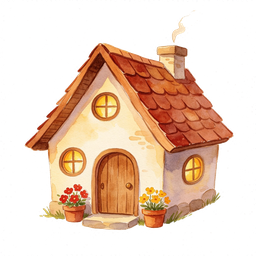
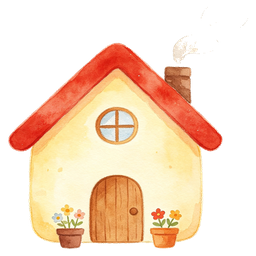
成本体系重构：元素按郊外标准固定、地皮价按区域系数化(5/10/15/20/25)、landCost保护老玩家净资产; 市中心建筑位12→8并移至广场; 保存图片保留主题背景+隐藏改名标记; 套餐支持多买(市政厅限1份); 重绘小屋/商铺/驿站/医院icon(色彩区隔); README同步

diff --git a/README.md b/README.md
@@ -7,13 +7,15 @@ A cozy alchemy-and-city-building game that runs entirely in **one zero-dependenc
 ## Gameplay
 
 - 🎰 **Lucky Draw Start** — draw your initial elements (Earth/Water/Fire/Air, 10–99 each) plus a handful of starter coins
-- ⚗ **Tap or Drag Alchemy** — tap an element to auto-fill the next slot, or drag to a specific slot. Combine two elements to discover 28 recipes (Earth+Water=Mud, Mud+Fire=Brick…). Crafting is free! **Batch crafting** unlocks by **net worth** (coins + chests×10 + elements tier×5 + pets by HP×5 + buildings & land at full value): net worth >100 → 1–5 at once, >1000 → 1–20, >10000 → 1–100. Numeric inputs include −/＋ steppers and reset to 1 after each craft/purchase. The **element library** shows all 29 discoverable cards (4 base + 19 craftable + 5 Life HP variants + Treasure Chest) and the discovery progress `X/29` matches the grid exactly
+- ⚗ **Tap or Drag Alchemy** — tap an element to auto-fill the next slot, or drag to a specific slot. Combine two/three elements to discover **30+ recipes** (Earth+Water=Mud, Mud+Fire=Brick…). Crafting is free! **Batch crafting** unlocks by **net worth** (coins + chests×10 + elements tier×5 + pets by HP×5 + buildings & land at full value): net worth >100 → 1–5 at once, >1000 → 1–10, >5000 → 1–50, >10000 → 1–100, ≥1,000,000 → no cap. Numeric inputs include −/＋ steppers and reset to 1 after each craft/purchase. The **element library** shows all **36** discoverable cards (basics + advanced + Life HP variants + Elixirs + Legendary) and the discovery progress `X/36` matches the grid exactly
 - 📕 **Recipe Book** — a password-locked grimoire listing every formula by element tier. Enter `1986` to reveal all recipes up to tier 3; enter `cosmos` to unlock the rest. Life recipes are shown at their real tier (e.g. Energy+Brick = HP 5) with an `(HP xx)` tag; the 🔩Metal+🔩Metal **Treasure Chest** recipe appears under tier 8. Unlock progress is stored independently of saves (survives export/import and reset)
-- 🏗 **Build Your Town** — gather materials to construct huts, shops, gardens, manors (generate coins) and a town hall (global +10% production bonus, no direct income). **Treasure Chests (🧰, crafted from 🔩Metal+🔩Metal)** are required as building materials for high-tier structures like Manors and City Hall
-- 🗺 **Town Map** — unlocked after building a Hut + Shop; visual map with 5 regions (Plain / Hillside / Forest / Riverside / Downtown), each with cost & output multipliers. Includes a stats bar (total buildings / coin output / developed regions), building badges, and a per-region building grid
+- 🏗 **Build Your Town** — gather materials to construct huts, shops, gardens, manors, factories (generate coins) and a town hall (global +10% production bonus, no direct income). **Treasure Chests (🧰, crafted from 🔩Metal+🔩Metal)** are required as building materials for high-tier structures like Manors and City Hall. **Building cost = element bundle (fixed at the countryside standard for every region) + build coins (base × region cost multiplier) + plot price (region-scaled)**. City Hall max 2 (2nd ×1.5); Factory only in the Factory District
+- 🗺 **Town Map** — unlocked after building any 2 buildings; visual map with **6 regions** (Countryside / Hillside / Forest / Riverside / Downtown / Factory), each with its own cost & output multipliers, plot price and building capacity (Downtown 8 plots, Factory 5). Includes a stats bar (total buildings / coin output / developed regions), building badges, and per-region building grid. Free layout mode unlocked by the 🏆 Real Estate Tycoon badge
+- 🛒 **Element Shop** — tabbed sections (Basic / Advanced / Life / Legendary): **Basic & Legendary are always purchasable**, Advanced unlocks once you craft any advanced element, Life unlocks once you craft any Life variant. Batch buying uses the same tiered limits as crafting. **Bundle bar** (one-tap full material packs, unlocked by the Element Master badge; buy up to 5, City Hall 1) and a **Trade-in shop** (sell Lv.4+ elements & pets at 80% buy price)
 - 🧬 **The Hidden Life Line** — Energy + high-tier "dead-end" elements = 🧬 Life. **Life is split by real HP (5 / 6 / 9 / 10 / 11)** — each HP variant counts separately in the library and discovery progress (e.g. Energy+Brick → HP 5, Energy+Bunch → HP 10). Hatch pets from it. **Max-tier Life has a 1/100 chance to hatch the legendary 🐼 Panda**
 - 🐾 **Pet Raising** — name your pets (up to 15 chars, English names in EN mode), track birth time (minutes→hours→days), raise intimacy (0–100, +0.5% bonus per level, unlocks custom avatar at Lv.10), per-species diets, hunger & HP per pet, a pet hospital (pets get sick but never die), and town-wide production bonuses from +1% to +5% base + intimacy bonus. Grid card layout with inline feed/play/heal actions
-- 🛒 **Element Shop** — buy common elements (tier ≤3) with coins; price = tier × 5. **Batch buying** with the same tiered limits as crafting
+- 🏆 **Achievements & Badges** — Element Master (collect all elements, unlocks the bundle bar), Real Estate Tycoon (own all plots with buildings, unlocks free layout), Animal King (own every pet species), 万元户 / Millionaire (net worth milestones) — each with a badge gallery, celebration overlay, and downloadable badge images
+- 🎠 **Pet Playpark** — unlocked once you own a 🐼 Panda; place all 10 pets in themed species nests, drag to swap, and save/share the scene as an image
 - 🧙♂ **Tab-Aware Elder NPC** — the elder gives context-specific hints per tab: smart recipe recommendations in Craft, building tips in Town, shop rules in Shop, and actual pet bonus breakdowns in Pet (including intimacy math: every 10 intimacy = 1 level = +0.5%). Tap the elder to dismiss early. Auto-hints on tab switch
 
 ## Features

diff --git a/README.zh-CN.md b/README.zh-CN.md
@@ -7,13 +7,16 @@
 ## 玩法
 
 - 🎰 **开局幸运抽取**：抽取四大基础元素（土/水/火/气，各 10~99 个）+ 少量启动金币
-- ⚗ **点击/拖拽合成**：轻点元素自动填入下一个空槽，或拖拽到指定槽；两个元素组合发现 28 个配方（土+水=泥、泥+火=砖……），合成免费。**批量合成**按**净资产**解锁（金币+宝箱×10+元素等级×5+宠物按生命×5+建筑与地皮按全价折算）：净资产>100→1~5个，>1000→1~20个，>10000→1~100个。数字输入带 −/＋ 步进按钮，每次合成/购买后自动回到 1。**元素库**共 29 种可发现卡片（4 基础+19 可合成+5 种 HP 生命+宝箱），发现进度 `X/29` 与网格完全一致
+- ⚗ **点击/拖拽合成**：轻点元素自动填入下一个空槽，或拖拽到指定槽；两个/三个元素组合发现 **30+ 个配方**（土+水=泥、泥+火=砖……），合成免费。**批量合成**按**净资产**解锁（金币+宝箱×10+元素等级×5+宠物按生命×5+建筑与地皮按全价折算）：净资产>100→1~5个，>1000→1~10个，>5000→1~50个，>10000→1~100个，≥100万→不限。数字输入带 −/＋ 步进按钮，每次合成/购买后自动回到 1。**元素库**共 **36** 种可发现卡片（基础+进阶+生命HP+药丸+传说），发现进度 `X/36` 与网格完全一致
 - 📕 **炼金配方书**：带密码锁的配方图鉴，按元素等级列出全部配方。输入 `1986` 解锁 3 级及以下全部配方，输入 `cosmos` 解锁其余所有配方；生命配方按真实等级展示（如 ⚡+🧱=HP5）并标注 `(HP xx)`，🔩金属+🔩金属=🧰宝箱 出现在 8 级；解锁进度独立存储，导出/导入与重置均不影响
-- 🏗 **建造小镇**：攒够建材建造小屋、商铺、花园、豪宅（持续产出金币）、市政厅（全镇产出+10%全局加成，自身不产出）。**🧰宝箱**作为豪宅、市政厅等高级建筑的建造材料
-- 🗺 **小镇地图**：建成小屋+商铺后解锁，可视化地图含 5 大分区（平原/山脚/林间/河岸/市中心）各有成本/产出系数；顶部统计栏（总建筑/金币产出/已开发区域）+ 建筑徽章 + 分区建筑网格展示
+- 🏗 **建造小镇**：攒够建材建造小屋、商铺、花园、豪宅、工厂（持续产出金币）、市政厅（全镇产出+10%全局加成，自身不产出）。**🧰宝箱**作为豪宅、市政厅等高级建筑的建造材料。**建筑成本 = 元素套餐（全区域统一按郊外标准）+ 建造金币（基准×区域成本系数）+ 地皮价格（随区域系数）**。市政厅最多2个（第2个×1.5）；工厂只能建在工厂区
+- 🗺 **小镇地图**：建成任意 2 个建筑后解锁，可视化地图含 **6 大分区**（郊外平原/山脚/林间/河岸/市中心/工厂区）各有成本/产出系数、地皮价格与建筑容量（市中心8块、工厂区5块）；顶部统计栏（总建筑/金币产出/已开发区域）+ 建筑徽章 + 分区建筑网格展示。🏆地产大亨徽章解锁自由摆放
+- 🛒 **元素商店**：分栏购买（基础/进阶/生命/传说）：**基础与传说默认可买**，进阶需合成任一进阶元素后解锁，生命需合成任一生命后解锁。批量购买与合成共享同一档阶级限。**套餐栏**（一键购买整套建材，元素之王徽章解锁，最多买5份、市政厅1份）与**置换商店**（按购买价80%回收4级及以上元素与宠物）
 - 🧬 **生命线（隐藏玩法）**：⚡能量 + 高级"死路元素" = 🧬生命，**按真实 HP 拆分（5/6/9/10/11）**——每种 HP 在元素库与发现进度中单独计数（如 ⚡+🧱=HP5、⚡+💮=HP10）；孕育宠物，**满级生命 1/100 出 🐼熊猫**
 - 🐾 **宠物养成**：给宠物起名（最多15字符，英文模式下自动用英文名）、记录出生时辰（分钟→小时→天自适应）、亲密度系统（0-100，每10点=1级=+0.5%产出加成，满级解锁自定义头像）、分物种口粮、饱食度/生命值、宠物医院（生病不死可治疗）、物种基础加成 +1%~+5% + 亲密度额外加成。网格卡片布局，喂食/互动/治疗在卡片内一键完成
-- 🛒 **元素商店**：用金币购买3级及以下常见元素，价格=层级×5。**批量购买**与合成共享同一档阶级限
+- 🛒 **元素商店**：用金币分栏购买（基础/进阶/生命/传说）：**基础与传说默认可买**，进阶需合成任一进阶元素解锁，生命需合成任一生命解锁。**批量购买**与合成共享同一档阶级限；另有**套餐栏**（一键购买整套建材，元素之王徽章解锁，最多5份、市政厅1份）与**置换商店**（80%回收4级及以上元素与宠物）
+- 🏆 **成就与徽章**：元素之王（集齐全部元素，解锁套餐栏）、地产大亨（全地皮+全建筑，解锁自由摆放）、动物大王（集齐全部宠物物种）、万元户/百万富翁（净资产里程碑）——配徽章殿堂、庆祝动画与可下载徽章图
+- 🎠 **动物乐园**：拥有 🐼熊猫 后解锁；10个宠物放入对应物种的专属小窝，可拖拽互换，支持整景保存/分享为图片
 - 🧙♂ **长老NPC按Tab差异化提示**：合成页智能推荐可合成配方、小镇页建筑收益提示、商店页规则说明、宠物页实际加成明细（含亲密度计算：每10点=1级=+0.5%）；点击长老可提前关闭，切换Tab自动弹出提示
 
 ## 特性
